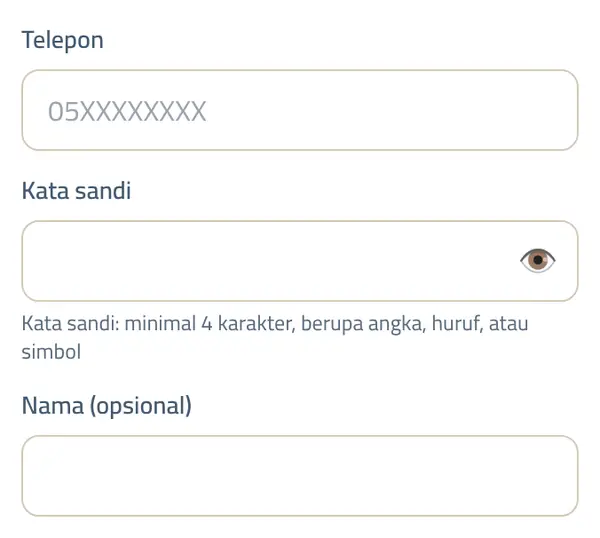
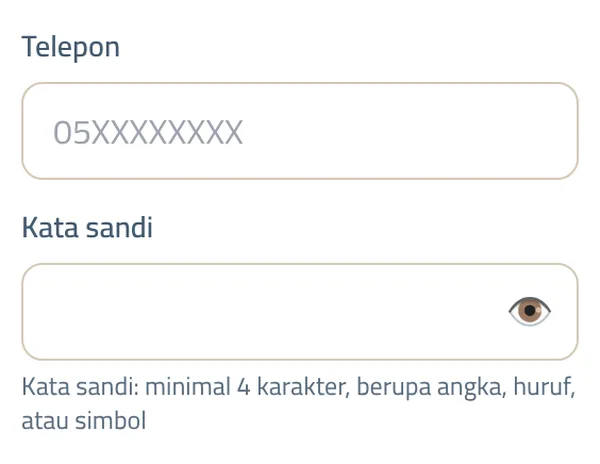
AYK-396: simpler sign-up — phone and password only, area from the connection, profession optional after
- Register: no role tabs, name or location; every new account starts as a requester.
- Server: on sign-up and first site login, an account without a city gets region/city from IP.
- Welcome: optional «اختر مهنتي ومنطقة تغطيتي» → /profile?become=provider (preselects «كلاهما»).
- Account type: pick region/city first when the account has none, then coverage districts.
- Sign-up guide reduced to two steps; account step re-shot in 11 languages.

Claude-Session: https://claude.ai/code/session_01NXwKTZXUBGGv5f4rqumav8

diff --git a/client/src/pages/RegisterPage.jsx b/client/src/pages/RegisterPage.jsx
@@ -43,12 +43,16 @@ export default function RegisterPage() {
   const location = useLocation();
   const params = new URLSearchParams(location.search);
   const from = internalAuthReturn(location.state?.from);
+  // From «سجّل كمقدم خدمة» links: the profession step is offered first after sign-up.
+  const [wantsProvider] = useState(() => ['provider', 'both'].includes(params.get('role')) || location.state?.wantsProvider === true);
   const { settings } = usePublicSettings();
   const termsHtml = localizedTerms(settings, lang, t);
 
   const [intro, setIntro] = useState(() => (signupIntroSeen() ? null : 'language'));
   const [form, setForm] = useState({
-    role: ['provider', 'both'].includes(params.get('role')) ? params.get('role') : 'client',
+    // AYK-396 (the owner: «سهّل التسجيل: فقط رقم الجوال… يحدد مهنته اختياري، وإن لم يختر يبقى طالب خدمة»):
+    // every account starts as a requester; the profession and coverage come right after, if wanted.
+    role: 'client',
     // AYK-372: from «للتسجيل من هنا» on the sign-in page, the number already typed there.
     phone: typeof location.state?.identifier === 'string' && /^[\d+\s()-]{8,}$/.test(location.state.identifier.trim()) ? cleanTyped(location.state.identifier.trim()) : '', password: '', full_name: '',
     service_ids: [], coverage: [], location_mode: 'mobile',
@@ -137,7 +141,9 @@ export default function RegisterPage() {
   }, [applyGeo]);
 
   // The location is taken automatically when the page opens.
-  useEffect(() => { locate(); return () => locationController.current?.abort(); }, [locate]);
+  // AYK-396: no location prompt here: the account's area comes from its connection (server side),
+  // and a provider's coverage is chosen right after sign-up.
+  useEffect(() => () => locationController.current?.abort(), []);
 
   // A provider's own neighbourhood is a sensible first coverage choice.
   useEffect(() => {
@@ -240,7 +246,7 @@ export default function RegisterPage() {
       });
       if (!res?.user?.role) throw new Error('Invalid registration response');
       forgetInvite(); // used: the next sign-up on this device starts clean
-      navigate('/register', { replace: true, state: { from, registrationResult: { userId: res.user.id, code: res.referral_code, role: res.user.role } } });
+      navigate('/register', { replace: true, state: { from, wantsProvider, registrationResult: { userId: res.user.id, code: res.referral_code, role: res.user.role } } });
     } catch (err) {
       setError(err.response?.data?.message === 'coupon_not_found' ? t('auth.invite_not_found') : apiError(err));
       if (err.response?.status === 409) setFieldErrors({ phone: apiError(err) });
@@ -267,10 +273,16 @@ export default function RegisterPage() {
         </>}
         {/* Microphone/camera and notifications are asked for here, once (AYK-047). */}
         <DevicePermissions />
-        <div className="flex gap-2">
-          {welcome.code && <Button type="button" variant="outline" block onClick={copy}>{copied ? `✓ ${t('auth.copied')}` : `📋 ${t('auth.copy')}`}</Button>}
-          <Button type="button" variant="primary" block onClick={() => navigate(authReturnTarget(welcome.role, from), { replace: true })}>{t('auth.continue')}</Button>
+        {welcome.code && <Button type="button" variant="outline" block onClick={copy}>{copied ? `✓ ${t('auth.copied')}` : `📋 ${t('auth.copy')}`}</Button>}
+        {/* AYK-396: the profession is optional, right here; without it the account stays a requester. */}
+        <div className={`rounded-card p-4 text-start space-y-2 ${wantsProvider ? 'border-2 border-primary bg-primary-soft' : 'border border-border bg-surface-alt'}`} data-testid="register-offer-service">
+          <div className="font-extrabold text-[15px]">🛠 {t('auth.offer_service_title')}</div>
+          <p className="text-[13px] text-fg-muted m-0">{t('auth.offer_service_hint')}</p>
+          <Button type="button" variant={wantsProvider ? 'primary' : 'outline'} block data-testid="register-become-provider"
+            onClick={() => navigate('/profile?become=provider#account-type', { replace: true })}>{t('auth.offer_service_button')}</Button>
         </div>
+        <Button type="button" variant={wantsProvider ? 'outline' : 'primary'} block data-testid="register-continue-client"
+          onClick={() => navigate(authReturnTarget(welcome.role, from), { replace: true })}>🙋 {t('auth.continue_as_client')}</Button>
       </div>
     );
   }
@@ -287,15 +299,6 @@ export default function RegisterPage() {
 
         {error && <ProblemNotice error={error} />}
 
-        <div className="role-tabs" role="radiogroup" aria-label={t('auth.account_type')}>
-          {ROLES.map(role => (
-            <button key={role.key} type="button" role="radio" aria-checked={form.role === role.key}
-              className={form.role === role.key ? 'active' : ''} onClick={() => update('role', role.key)}>
-              <span className="block text-lg leading-none mb-1">{role.icon}</span>{t(role.label)}
-            </button>
-          ))}
-        </div>
-        {form.role === 'both' && <p className="text-xs text-secondary -mt-1">{t('auth.role_both_hint')}</p>}
 
         <Input id="register-phone" name="phone" label={t('auth.phone')} type="tel" required maxLength={30} dir="ltr"
           value={form.phone} error={fieldErrors.phone} autoComplete="tel" inputMode="tel" placeholder="05XXXXXXXX"
@@ -311,44 +314,6 @@ export default function RegisterPage() {
             (AYK-139; it opened the number pad only). */}
         <PasswordInput label={t('auth.password')} required minLength={4} autoComplete="new-password" adviseLength
           hint={t('auth.password_min')} value={form.password} error={fieldErrors.password} onChange={e => update('password', e.target.value)} />
-        <Input id="register-full_name" name="full_name" label={t('auth.name_optional')} maxLength={150}
-          autoComplete="name" value={form.full_name} error={fieldErrors.full_name} onChange={e => update('full_name', e.target.value)} />
-
-        {/* Location: automatic, with the map as the fallback. */}
-        <div className="rounded-card border border-border px-3 py-2" data-testid="register-location">
-          <div className="flex items-center justify-between gap-2">
-            <div className="text-[13.5px] min-w-0">
-              {locStatus === 'locating' ? <span role="status">⏳ {t('auth.locating')}</span> :
-                locStatus === 'ok' ? <span>📍 {place.label || t('auth.simple_location_set')}</span> :
-                <span className="text-amber-700">📍 {t(locStatus === 'denied' ? 'auth.location_denied' : 'auth.simple_location_pick')}</span>}
-            </div>
-            <div className="flex gap-1 shrink-0">
-              {locStatus !== 'locating' && locStatus !== 'ok' && <button type="button" onClick={locate}
-                className="px-2.5 py-1 rounded-pill text-[12px] font-semibold bg-surface-alt">{t('auth.retry')}</button>}
-              <button type="button" onClick={() => { locationController.current?.abort(); setMapOpen(true); }}
-                className="px-2.5 py-1 rounded-pill text-[12px] font-semibold bg-surface-alt">🗺 {locStatus === 'ok' ? t('auth.location_change') : t('auth.pick_on_map')}</button>
-            </div>
-          </div>
-          {place.lat && !place.city_id && <div className="grid grid-cols-2 gap-2 mt-2">
-            <select className="select" aria-label={t('location.region')} value={place.region_id}
-              onChange={e => setPlace(previous => ({ ...previous, region_id: e.target.value, city_id: '', district_id: '' }))}>
-              <option value="">{t('location.region')}</option>
-              {regions.map(row => <option key={row.id} value={row.id}>{localizedName(row, lang)}</option>)}
-            </select>
-            <select className="select" aria-label={t('location.city')} value={place.city_id} disabled={!place.region_id}
-              onChange={e => setPlace(previous => ({ ...previous, city_id: e.target.value, district_id: '' }))}>
-              <option value="">{t('location.city')}</option>
-              {cities.map(row => <option key={row.id} value={row.id}>{localizedName(row, lang)}</option>)}
-            </select>
-          </div>}
-          {districtMissing && <select className="select mt-2" aria-label={t('location.district')} value={place.district_id}
-            onChange={e => setPlace(previous => ({ ...previous, district_id: e.target.value }))}>
-            <option value="">{t('auth.simple_choose_district')}</option>
-            {districts.map(row => <option key={row.id} value={row.id}>{localizedName(row, lang)}</option>)}
-          </select>}
-          {fieldErrors.location && <p role="alert" className="form-error mt-1">{fieldErrors.location}</p>}
-          {!isProvider && locStatus !== 'ok' && locStatus !== 'locating' && <p className="text-[12px] text-fg-muted mt-1 mb-0" data-testid="register-location-later">{t('auth.location_later')}</p>}
-        </div>
 
         {isProvider && <>
           <ProfessionsPicker serviceIds={form.service_ids} onChange={ids => update('service_ids', ids)} error={fieldErrors.service_ids} />

diff --git a/client/src/components/profile/AccountTypeSection.jsx b/client/src/components/profile/AccountTypeSection.jsx
@@ -1,7 +1,10 @@
-import { useState } from 'react';
+import { useEffect, useState } from 'react';
 import { useTranslation } from 'react-i18next';
 import { useAuth } from '../../hooks/useAuth';
-import { changeAccountType } from '../../services/authService';
+import { changeAccountType, updateProfile } from '../../services/authService';
+import useRequestLocation from '../../hooks/useRequestLocation';
+import RequestLocationFields from '../common/RequestLocationFields';
+import { REQUEST_LOCATION_LEVELS } from '../../utils/requestLocation';
 import Button from '../common/Button';
 import ProblemNotice from '../common/ProblemNotice';
 import ProfessionsPicker from '../common/ProfessionsPicker';
@@ -23,7 +26,12 @@ export default function AccountTypeSection({ onSaved, onError }) {
   const { t } = useTranslation();
   const { user, refresh } = useAuth();
   const current = user?.role === 'client' ? 'client' : Number(user?.also_client) === 1 ? 'both' : 'provider';
-  const [target, setTarget] = useState(current);
+  // AYK-396: arriving from sign-up's «اختر مهنتي» (?become=provider), the work details open at once.
+  const becoming = current === 'client' && typeof window !== 'undefined' && new URLSearchParams(window.location.search).get('become') === 'provider';
+  const [target, setTarget] = useState(becoming ? 'both' : current);
+  useEffect(() => {
+    if (becoming) setTimeout(() => document.getElementById('account-type')?.scrollIntoView({ behavior: 'smooth', block: 'start' }), 600);
+  }, [becoming]);
   const [serviceIds, setServiceIds] = useState([]);
   const [coverage, setCoverage] = useState([]);
   const [coverageCount, setCoverageCount] = useState(null);
@@ -92,6 +100,7 @@ export default function AccountTypeSection({ onSaved, onError }) {
         <div className="space-y-3 mt-3">
           <p className="text-[12.5px] text-fg-muted m-0">{t('profile.account_type_work_hint')}</p>
           <ProfessionsPicker serviceIds={serviceIds} onChange={setServiceIds} disabled={saving} />
+          {!hidden.has('coverage') && !user.city_id && <AccountAreaFirst user={user} onSaved={refresh} disabled={saving} />}
           {!hidden.has('coverage') && <CoverageDistrictsPicker cityId={user.city_id} value={coverage} onChange={setCoverage} disabled={saving} required={coverageRequired}
             onDistrictsLoaded={setCoverageCount} />}
           {!hidden.has('location_mode') && <ServiceVenuePicker value={mode} onChange={setMode} disabled={saving} />}
@@ -124,6 +133,31 @@ export default function AccountTypeSection({ onSaved, onError }) {
       <LocationPickerMap open={mapOpen} initialLat={venue?.lat ?? user.latitude} initialLon={venue?.lon ?? user.longitude}
         initialPointSelected={!!venue} onClose={() => setMapOpen(false)}
         onConfirm={result => setVenue({ lat: result.lat, lon: result.lon })} />
+    </div>
+  );
+}
+
+// AYK-396: the coverage districts are those of the account's city. When the connection did not tell
+// the city, the person picks region and city here first (saved to the account), then the districts.
+function AccountAreaFirst({ user, onSaved, disabled }) {
+  const { t } = useTranslation();
+  const control = useRequestLocation({ user });
+  const [busy, setBusy] = useState(false);
+  const [failed, setFailed] = useState(null);
+  const save = async () => {
+    setBusy(true); setFailed(null);
+    try {
+      await updateProfile(Object.fromEntries(REQUEST_LOCATION_LEVELS.map(key => [key, control.location[key] || null])));
+      await onSaved();
+    } catch (err) { setFailed(err); } finally { setBusy(false); }
+  };
+  return (
+    <div className="rounded-card border border-border p-3 space-y-2" data-testid="account-area-first">
+      <p className="text-[12.5px] text-fg-muted m-0">📍 {t('profile.area_first_hint')}</p>
+      <RequestLocationFields control={control} prefix="account-area" disabled={disabled || busy} />
+      <Button type="button" variant="primary" block loading={busy} disabled={disabled || !control.location.city_id} onClick={save}
+        data-testid="account-area-save">{t('profile.area_first_save')}</Button>
+      {failed && <ProblemNotice error={failed} onClose={() => setFailed(null)} />}
     </div>
   );
 }

diff --git a/server/services/accountAreaFromIp.js b/server/services/accountAreaFromIp.js
@@ -1,0 +1,50 @@
+// AYK-396 (the owner: «أول دخول يأخذ موقعه آليًا بدون طلب»). A new account that has no area gets
+// its region and city from its connection (the same coarse IP lookup the ads already use), with no
+// prompt on the phone. Only the region and city: never a point, never a district (an IP is not that
+// precise). Kept only while the account has no city: anything the person chooses later wins.
+const { query, queryOne } = require('../config/database');
+const ipGeo = require('./ipGeoService');
+const logger = require('../utils/logger');
+
+const norm = value => String(value || '').trim().toLowerCase().replace(/^al[-\s]/, '').replace(/^ال/, '');
+
+async function findCity(name, regionId) {
+  if (!name) return null;
+  const rows = await query(
+    `SELECT c.id, c.name_ar, c.name_en, COALESCE(c.region_id, g.region_id) AS region_id, c.governorate_id
+       FROM cities c LEFT JOIN governorates g ON g.id = c.governorate_id
+      WHERE c.is_active = 1 ${regionId ? 'AND COALESCE(c.region_id, g.region_id) = ?' : ''}`,
+    regionId ? [regionId] : []);
+  const wanted = norm(name);
+  return rows.find(row => norm(row.name_en) === wanted || norm(row.name_ar) === wanted) || null;
+}
+
+// Fills users.region_id / city_id (and country / governorate when those columns exist) from the
+// request's connection. Never throws; resolves within `timeoutMs` at most.
+async function fillAccountAreaFromIp(req, userId, { timeoutMs = 2500 } = {}) {
+  const work = (async () => {
+    const user = await queryOne('SELECT id, city_id, region_id FROM users WHERE id = ? AND deleted_at IS NULL', [userId]);
+    if (!user || user.city_id) return null;
+    const geo = await ipGeo.lookup(ipGeo.ipFromRequest(req));
+    if (!geo?.region_id) return null;
+    const city = await findCity(geo.city, geo.region_id);
+    const region = await queryOne('SELECT id, country_id FROM regions WHERE id = ?', [geo.region_id]);
+    const cols = await query(`SELECT column_name FROM information_schema.columns
+      WHERE table_schema = current_schema() AND table_name = 'users' AND column_name IN ('country_id', 'region_id', 'governorate_id')`);
+    const has = new Set(cols.map(c => c.column_name));
+    const sets = [], values = [];
+    if (has.has('region_id')) { sets.push('region_id = ?'); values.push(Number(geo.region_id)); }
+    if (has.has('country_id') && region?.country_id) { sets.push('country_id = ?'); values.push(Number(region.country_id)); }
+    if (city) {
+      sets.push('city_id = ?'); values.push(Number(city.id));
+      if (has.has('governorate_id') && city.governorate_id) { sets.push('governorate_id = ?'); values.push(Number(city.governorate_id)); }
+    }
+    if (!sets.length) return null;
+    // Only while still empty: a choice the person made meanwhile is never overwritten.
+    await query(`UPDATE users SET ${sets.join(', ')} WHERE id = ? AND city_id IS NULL`, [...values, userId]);
+    return { region_id: Number(geo.region_id), city_id: city ? Number(city.id) : null };
+  })().catch(err => { logger.warn(`Account area from IP failed: ${err.message}`); return null; });
+  return Promise.race([work, new Promise(resolve => setTimeout(() => resolve(null), timeoutMs).unref?.())]);
+}
+
+module.exports = { fillAccountAreaFromIp, findCity };

diff --git a/server/tests/account-area-ip.test.js b/server/tests/account-area-ip.test.js
@@ -1,0 +1,54 @@
+// AYK-396: a new account without an area gets its region and city from its connection, without a
+// prompt; an account that already has a city is never touched.
+const test = require('node:test');
+const assert = require('node:assert/strict');
+const path = require('node:path');
+const Module = require('node:module');
+
+function load({ user, geo, cities }) {
+  const updates = [];
+  const original = Module._load;
+  Module._load = function (request) {
+    if (/config\/database$/.test(request)) return {
+      queryOne: async (sql) => (/FROM users/.test(sql) ? user : /FROM regions/.test(sql) ? { id: geo?.region_id, country_id: 1 } : null),
+      query: async (sql, params) => {
+        if (/FROM cities/.test(sql)) return cities;
+        if (/information_schema/.test(sql)) return [{ column_name: 'region_id' }, { column_name: 'country_id' }, { column_name: 'governorate_id' }];
+        if (/^UPDATE users/.test(sql)) { updates.push({ sql, params }); return []; }
+        return [];
+      },
+    };
+    if (/ipGeoService$/.test(request)) return { lookup: async () => geo, ipFromRequest: () => '203.0.113.9' };
+    if (/utils\/logger$/.test(request)) return { warn() {} };
+    return original.apply(this, arguments);
+  };
+  const file = path.join(__dirname, '..', 'services', 'accountAreaFromIp.js');
+  delete require.cache[file];
+  const mod = require(file);
+  Module._load = original;
+  return { mod, updates };
+}
+
+test('no area yet: region and city from the connection, only while still empty', async () => {
+  const { mod, updates } = load({ user: { id: 7, city_id: null }, geo: { region_id: 5, city: 'Buraydah' },
+    cities: [{ id: 40, name_ar: 'بريدة', name_en: 'Buraydah', region_id: 5, governorate_id: 9 }] });
+  assert.deepEqual(await mod.fillAccountAreaFromIp({}, 7), { region_id: 5, city_id: 40 });
+  assert.equal(updates.length, 1);
+  assert.match(updates[0].sql, /city_id IS NULL/);
+  assert.deepEqual(updates[0].params, [5, 1, 40, 9, 7]);
+});
+
+test('a city in the region not found: the region alone', async () => {
+  const { mod, updates } = load({ user: { id: 7, city_id: null }, geo: { region_id: 5, city: 'Somewhere' }, cities: [] });
+  assert.deepEqual(await mod.fillAccountAreaFromIp({}, 7), { region_id: 5, city_id: null });
+  assert.deepEqual(updates[0].params, [5, 1, 7]);
+});
+
+test('an account that has a city, or no location from the connection: nothing changes', async () => {
+  let loaded = load({ user: { id: 7, city_id: 3 }, geo: { region_id: 5, city: 'Buraydah' }, cities: [] });
+  assert.equal(await loaded.mod.fillAccountAreaFromIp({}, 7), null);
+  assert.equal(loaded.updates.length, 0);
+  loaded = load({ user: { id: 7, city_id: null }, geo: null, cities: [] });
+  assert.equal(await loaded.mod.fillAccountAreaFromIp({}, 7), null);
+  assert.equal(loaded.updates.length, 0);
+});

diff --git a/server/controllers/authController.js b/server/controllers/authController.js
@@ -233,6 +233,8 @@ const register = asyncHandler(async (req, res) => {
     } catch (_) { /* column may not exist on older schemas */ }
   }
 
+  // AYK-396: an account without an area gets its region and city from its connection, no prompt.
+  await require('../services/accountAreaFromIp').fillAccountAreaFromIp(req, userId);
   const user = await User.findById(userId);
   const raw = await User.findByIdRaw(user.id);
   const token = await issueSession(req, res, raw);
@@ -345,6 +347,8 @@ const login = asyncHandler(async (req, res) => {
   if (user.is_blocked) return error(res, req.t('account_blocked'), 403);
   if (!user.is_active) return error(res, req.t('account_inactive'), 403);
 
+  // AYK-396: the first sign-in of an account that still has no area takes it from the connection.
+  if (requestScope(req) === 'site' && !user.city_id) await require('../services/accountAreaFromIp').fillAccountAreaFromIp(req, user.id);
   const token = await issueSession(req, res, user);
   // In the site and the app an admin account is an ordinary user (AYK-151).
   const found = await User.findById(user.id);

diff --git a/client/src/components/common/SignupIntro.jsx b/client/src/components/common/SignupIntro.jsx
@@ -7,7 +7,9 @@ import useCountry from '../../hooks/useCountry';
 // The sign-up guide (owner's request, AYK-296). The first time someone opens the sign-up page, they
 // choose their language, then a book shows how to sign up, step by step, with pictures of the page
 // itself in that language. «Start signing up» closes it; the button on the page opens it again.
-export const SIGNUP_STEPS = ['types', 'account', 'location', 'work', 'schedule', 'finish'];
+// AYK-396: sign-up is the phone and a password only; the area comes from the connection and the
+// profession is offered after the account is created (optional), so the guide has those two steps.
+export const SIGNUP_STEPS = ['account', 'finish'];
 const SEEN = 'ayk_signup_intro_seen';
 
 export function signupIntroSeen() {
